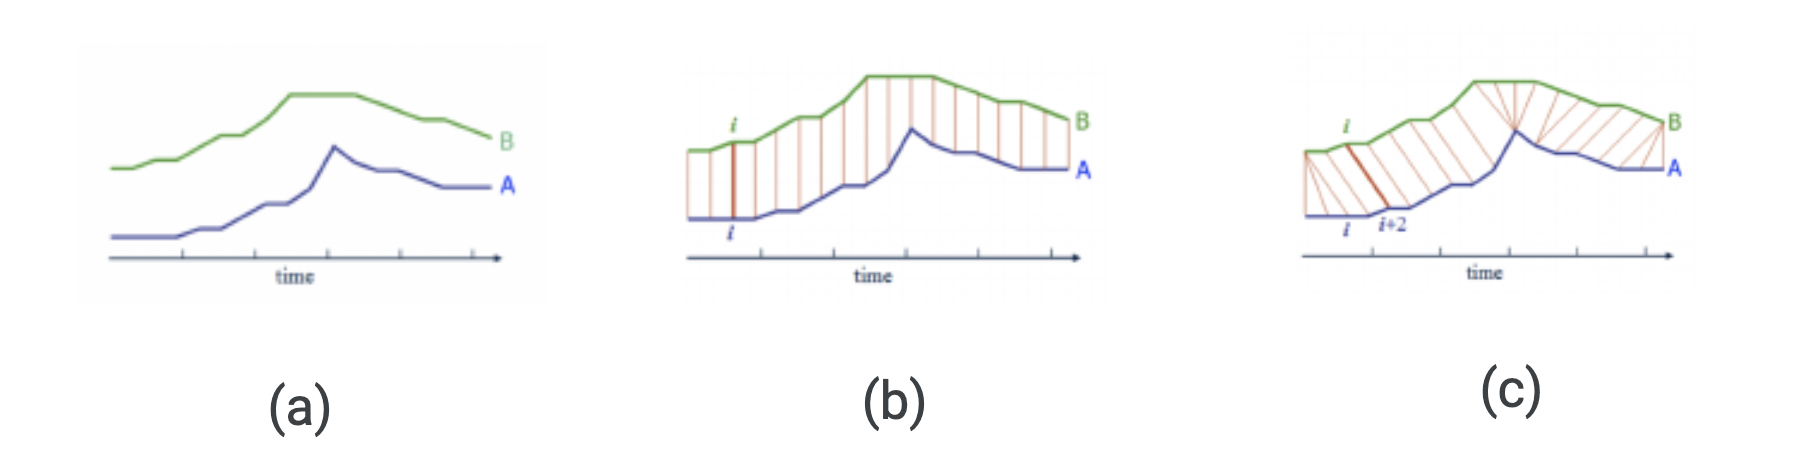
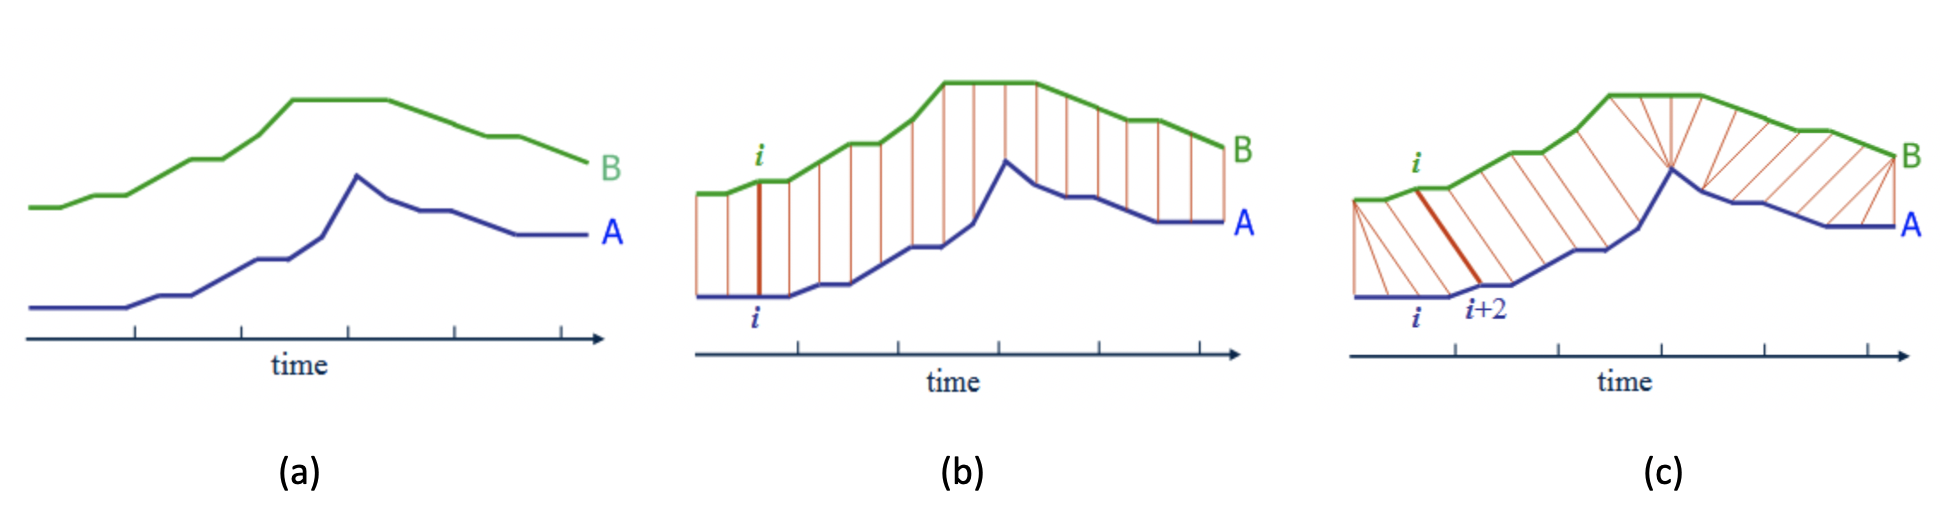
1. modify according to Aras's comments. 2. modify iamges.

diff --git a/background_and_relatedwork.tex b/background_and_relatedwork.tex
@@ -7,7 +7,7 @@ These include distance measurement methods, averaging methods, and semi-supervis
 \section{Dissimilarity measurement for time series}
 Euclidean distance is commonly used in measuring distances between two points, two vectors, etc. It is simple and competitive for many scenarios. However, it is not the best choice in some domains, such as time series. Time series data are sensitive to the time axis. Even though they share similar shapes they might not match well in Euclidean distance because their shifts or speed might not synchronize. A better way of measuring distance between time series that can capture their similarities is Dynamic Time Warping (DTW).
 \subsection{DTW}
-Dynamic time warping (DTW) is a well-known method to measure the distance between time series instances (could be also called sequences). \cref{fig:dtw_vs_normal} gives an intuitive illustration of the difference between Euclidean distance and DTW.  \cref{fig:dtw_vs_normal} (a) shows two time series, A and B, respectively. We are interested in their similarity.  \cref{fig:dtw_vs_normal} (b) illustrates how points in A and B are mapped to each other in Euclidean distance. We can see that the element of A at position $ i $ is mapped to the element of B at position $ i $. Unlike Euclidean distance,  \cref{fig:dtw_vs_normal} (c) shows that in DTW, there is no such necessity that the element of A at position $ i $ is mapped to the element of B at position $ i $. Actually in this case the element of A at position $ i $ is mapped to the element of B at position $ i+2 $. DTW is designed in such a way to find optimal alignment between two time series. Intuitively, it uses dynamic programming to map two time series in a way that similar values, e.g. peaks and troughs are mapped together. 
+Dynamic time warping (DTW) \cite{senin2008dynamic} is a well-known method to measure the distance between time series instances (could be also called sequences). \cref{fig:dtw_vs_normal} gives an intuitive illustration of the difference between Euclidean distance and DTW.  \cref{fig:dtw_vs_normal} (a) shows two time series, A and B, respectively. We are interested in their similarity.  \cref{fig:dtw_vs_normal} (b) illustrates how points in A and B are mapped to each other in Euclidean distance. We can see that the element of A at position $ i $ is mapped to the element of B at position $ i $. Unlike Euclidean distance,  \cref{fig:dtw_vs_normal} (c) shows that in DTW, there is no such necessity that the element of A at position $ i $ is mapped to the element of B at position $ i $. Actually in this case the element of A at position $ i $ is mapped to the element of B at position $ i+2 $. DTW is designed in such a way as to find optimal alignment between two time series. Intuitively, it uses dynamic programming to map two time series in a way that similar values, e.g. peaks and troughs are mapped together. 
 
 
 \begin{figure}[!htb]
@@ -28,14 +28,14 @@ Before diving into the details of the DTW algorithm, we would like to first intr
 	\item The mapping of indices from one time series to the other time series should be monotonically increasing. For example, if $ i < j $ are indices from one time series, and $ k < l $ are indices from the other time series, there is no such mapping like index $ i $ is mapped to index $ l $ and index $ j $ is mapped to index $ k $.
 \end{itemize}
 
-DTW finds the best alignment between two time series while satisfying these preconditions by solving a dynamic programming problem. Suppose there are two sequences, sequence $ S $ of length $ n $ and sequence $ T$ of length $ m $. DTW maintains a two-dimension distance matrix of size $ n * m $, where element with index $ i, j $ records the accumulated distance of the best alignment between subsequence of $ S $ with indices from $ 1 $ to $ i $ and subsequence of $ T $ with indices from $ 1 $ to $ j $. In \cref{fig:dtw_w_all}, we are interested in the accumulated distance between index $ i $ in first sequence and index $ j $ in the second sequence.  At this moment index i is mapped to index j, which in shown in the blue line. To meet with the preconditions of DTW mentioned above, there are three possibilities on the choice of the former alignment, index $ i-1 $ mapped to index $ j $, index $ i $ mapped to index $ j-1 $ and index $ i-1 $ mapped to index $ j-1 $, which are shown in red lines. The alignment of the three having the smallest accumulated distance will be chosen. Let's look into the DTW algorithm. From lines 2 to 6, it initializes the matrix with the distance of index pairs in two sequences. From lines 13 to 17, it modifies each element of the matrix by adding the smallest accumulated distance of the three possible former alignments.
+DTW finds the best alignment between two time series while satisfying these preconditions by solving a dynamic programming problem. Suppose there are two sequences, sequence $ S $ of length $ n $ and sequence $ T$ of length $ m $. DTW maintains a two-dimension distance matrix of size $ n * m $, where element with index $ i, j $ records the accumulated distance of the best alignment between subsequence of $ S $ with indices from $ 1 $ to $ i $ and subsequence of $ T $ with indices from $ 1 $ to $ j $. In \cref{fig:dtw_w_all}, we are interested in the accumulated distance between index $ i $ in first sequence and index $ j $ in the second sequence.  At this moment the index i is mapped to the index j, which is shown in the blue line. To meet with the preconditions of DTW mentioned above, there are three possibilities on the choice of the former alignment, index $ i-1 $ mapped to index $ j $, index $ i $ mapped to index $ j-1 $ and index $ i-1 $ mapped to index $ j-1 $, which are shown in red lines. The alignment of the three having the smallest accumulated distance will be chosen. Let's look into the DTW algorithm. From lines 2 to 6, it initializes the matrix with the distance of index pairs in two sequences. From lines 13 to 17, it modifies each element of the matrix by adding the smallest accumulated distance of the three possible former alignments.
 
 \begin{figure}[!htb]
 	\centering
 	\begin{minipage}[t]{\textwidth}
 		\centering
 		\includegraphics[width=\linewidth]{pics/related_work/dtw_w_all}
-		\caption{Mapping in DTW}
+		\caption{Warping in DTW}
 		\label{fig:dtw_w_all}
 	\end{minipage}
 \end{figure}
@@ -94,7 +94,7 @@ DTW not only captures amplitude information of time series and computes their di
 
 
 \section{Averaging methods for time series}
-Apart from selecting the proper distance measurement method for time series instances, choosing the right averaging method for time series instances is also of much importance. A suitable average of time series should reflect the overall trend of them without missing other important characteristics, such as peaks and troughs. DTW Barycenter Averaging (DBA) is designed for this purpose.
+Apart from selecting the proper distance measurement method for time series instances, choosing the right averaging method for time series instances is also of much importance. A suitable average of time series should reflect the overall trend of them without missing other important characteristics, such as peaks and troughs. DTW Barycenter Averaging (DBA) \cite{petitjean2011global} is designed for this purpose.
 \subsection{DBA}
 As can be seen from its name, DTW Barycenter Averaging (DBA) makes use of DTW. It first initializes the average as the medoid of the time series instances, which is the one among all the time series instances that has the smallest sum of distances to all the other instances. After the initialization, DBA updates the average iteratively. Algorithm DBA shows how the average is updated at each iteration provided the old average and the sequences. At each iteration, it first computes the DTW between every sequence and the old average. For each coordinate in the old average, in every sequence there are one or more coordinates that are associated with it, DBA updates the coordinate with the barycenter of all the coordinates associated with it. DBA lets DTW refine its association iteratively and can converge the average gradually. DBA outperforms other averaging methods on sequences in a few ways. Firstly, it is a global averaging method, which means it is insensitive to the ordering of the sequences, which makes sure the stability of the average. Secondly, it modifies the coordinates of the average over time, but it doesn't change the length of the average, which is another sign of stability. Thirdly, the within-group sum of squares (WGSS) of DBA is much smaller than other averaging methods. Last but not least, it is more robust to the diversity of sequences, which means its performance is less influenced if sequences are more mixed. 
 
@@ -172,21 +172,21 @@ As we can see from \fref{fig:arithmetic} and \fref{fig:dba} \cite{dta_vs_arithme
 \section{Semi supervised time series clustering methods}
 
 \subsection{Semi-supervised learning}
-In supervised learning, we have the labels of all the instances, thus we can check the accuracy of our algorithms by comparing the expected labels and predicted labels of the instances. It enjoys the clarity of data and is easy to train. However, labeling all the data is not a trivial task, and sometimes it is not easy or even impossible to get the labels of data.
+In supervised learning, we have the labels of all the instances. It enjoys the clarity of data and is easy to train. However, labeling all the data is not a trivial task, and sometimes it is not easy or even impossible to get the labels of data.
 
-In unsupervised learning, no data is labeled, and algorithms are expected to find patterns on these unlabeled data. It saves the effort of collecting the labels of data. However, it can not reflect any users' export knowledge.
+In unsupervised learning, no data is labeled, and algorithms are expected to find patterns on these unlabeled data. It saves the effort of collecting the labels of data. However, it can not reflect any users' expert knowledge.
 
-Clustering is subjective. Different users might expect different clustering results given the same dataset. In Semi-supervised learning, a small part of data are labeled and most of the data are unlabeled.  Little effort in collecting expert knowledge can contribute greatly to the clustering result. These small parts of labeled data not only shape the result of clustering but also accelerate the process of clustering. 
+Clustering is subjective. Different users might expect different clustering results given the same dataset. For example, images of faces can be clustered by gender, or whether they have eyeglasses or not, etc. In Semi-supervised learning, a small part of data are labeled and most of the data are unlabeled.  Little effort in collecting expert knowledge can contribute greatly to the clustering result. These small parts of labeled data not only shape the result of clustering but also accelerate the process of clustering. 
 \subsection{COBRA} \label{sec:COBRA}
 COBRA \cite{vancraenendonck2018cobra} is a constraint-based semi-supervised clustering method. Constraint-based clustering does not ask the users the labels of the instances directly. Instead, it queries the relation between instance pairs and adds constraints on the instances. There are two types of constraints, must-link, and cannot-link. A must-link means that two instances should be in the same cluster, while a cannot-link means that two instances should be in different clusters. The target should be asking users as few queries as possible to get a clustering close to the expected one.  
 
 Suppose we have $  N$ instances, to get the relation between all the instance pairs we need $N*(N-1)/2$ queries, so the number of queries increases exponentially as the instance number grows. We can reduce the number of queries by introducing \textit{constraint entailment and transitivity}.  Must-link constraints are transitive:
 
-\begin{center}$must-link(A, B) \wedge must-link(B, C) \Rightarrow must-link(A, C)$\end{center} \label{cobra:entailment}
+\begin{center}$\mathrm{must\mbox{-}link}(A, B) \wedge \mathrm{must\mbox{-}link}(B, C) \Rightarrow \mathrm{must\mbox{-}link}(A, C)$\end{center} \label{cobra:entailment}
 
 \noindent ,and cannot-link constraints have entailment property:
 
-\begin{center}$must-link(A, B) \wedge cannot-link(B, C) \Rightarrow cannot-link(A, C)$\end{center} \label{cobra:transitivity}
+\begin{center}$\mathrm{must\mbox{-}link}(A, B) \wedge \mathrm{cannot\mbox{-}link}(B, C) \Rightarrow \mathrm{cannot\mbox{-}link}(A, C)$\end{center} \label{cobra:transitivity}
 
 \noindent As a result, whenever we get a constraint, we can apply the constraint entailment and transitivity to enlarge the constraint set. In this case, we can decrease the number of queries.
 
@@ -206,11 +206,11 @@ All of the above clustering methods produce very good clustering. Still, they ne
 		\WHILE  {the clustering changed}
 		\STATE Let $\mathit{L}$ be the list of all pairs of partial clusters between which the relation is not known yet, sorted by their pairwise distance
 		\FOR {$\mathit{P_1, P_2}$ $\in$ $\mathit{L}$}
-			\STATE Query the relation between partial clusters $\mathit{P_1}$  and $\mathit{P_2}$ 
-			\IF {a must-link relation is obtained}
-				\STATE merge $\mathit{P_1}$ and $\mathit{P_2}$  into a new partial cluster
-				\STATE break
-			\ENDIF
+		\STATE Query the relation between partial clusters $\mathit{P_1}$  and $\mathit{P_2}$ 
+		\IF {a must-link relation is obtained}
+		\STATE merge $\mathit{P_1}$ and $\mathit{P_2}$  into a new partial cluster
+		\STATE break
+		\ENDIF
 		\ENDFOR
 		\ENDWHILE
 		\RETURN the current clustering
@@ -231,24 +231,24 @@ As shown in \fref{fig:contrain-based-level}, we are going to cluster on five dot
 Although COBRA can greatly reduce the number of queries and increase the speed of getting clustering results, there is one obvious defect of COBRA. Once a super-instance is formed, it can only be merged into a bigger super-instance, and can never be split again. As users, we are asked to provide COBRA with the number of original super-instances so that COBRA can use it in the K-means algorithm to split the data at the very beginning. If we fail to designate a good number of super-instances, unexpected results might occur. For instance, if we set the original number of super-instances to a number that is too small, we might get under clustering, where instances that are not supposed to be in the same group are clustered together. On the contrary, if we set the original number of super-instances to a number that is too big, we might get over clustering, where instances that are supposed to be in the same group are split away. As a result, getting a clustering of perfect granularity
 is not always the case in COBRA.
 
-COBRAS is designed to automatically form clusters of better granularity
+COBRAS \cite{van2018cobras} is designed to automatically form clusters of better granularity
 . It refines COBRA by giving chance to split super-instances after it is formed. The main difference between COBRAS and COBRA is that in COBRAS, even if instances that are not expected to be in the same cluster are merged in some phase, there still exists the chance for them to separate later. In other words, in COBRA there are only merging, but in COBRAS merging and splitting happen alternately, until the query budget is used up. Another important difference between COBRAS and COBRA is that in COBRAS there is no such need to set up an initial number of super-instances, as COBRAS can decide it by itself. 
 
 \begin{algorithm}[h]
 	\caption{Constraint-based Repeated Aggregation and Splitting \cite{van2018cobras}}
 	\label{algo:cobras}
-	 \hspace*{\algorithmicindent} \textbf{$\mathcal{X}$: a dataset, $\mathit{q}$: a query limit} \\
+	\hspace*{\algorithmicindent} \textbf{$\mathcal{X}$: a dataset, $\mathit{q}$: a query limit} \\
 	\hspace*{\algorithmicindent} \textbf{$\mathcal{C}$: a clustering of $\mathit{D}$} 
 	\begin{algorithmic}[1]
 		\STATE  $\mathit{ML = \emptyset, CL = \emptyset}$
 		\STATE $\mathit{S}$ = \{$\mathcal{X}$\}, $\mathit{C = \{S\}}$, $\mathcal{C}$ = {$\mathit\{C\}$}
 		\WHILE {|$\mathit{ML}$| + |$\mathit{CL}$| < $\mathit{q}$}
-			\STATE $\mathit{S_{split}, C_{origin}} = \argmax_{\mathit{S \in C, C \in} \mathcal{C}} |\mathit{S}|$
-			\STATE $\mathit{k,ML,CL}$ = determineSplitLevel($\mathit{S_{split} , ML, CL}$)
-			\STATE $\mathit{S_{new_1}, ... , S_{new_k}}$ = K-means($\mathit{S_{split}, k}$)
-			\STATE $\mathit{C_{origin} = C_{origin}  \setminus \{S_{spit}\}}$
-			\STATE $\mathcal{C}$ = $\mathcal{C}$ $ \bigcup $\ \{\{$\mathit{S_{new_1}}$\}, ...,\{$\mathit{S_{new_k}}$\}\}
-			\STATE $\mathcal{C}$, $\mathit{ML, CL}$ = COBRA($\mathcal{C}$, $\mathit{ML, CL}$ )
+		\STATE $\mathit{S_{split}, C_{origin}} = \argmax_{\mathit{S \in C, C \in} \mathcal{C}} |\mathit{S}|$
+		\STATE $\mathit{k,ML,CL}$ = determineSplitLevel($\mathit{S_{split} , ML, CL}$)
+		\STATE $\mathit{S_{new_1}, ... , S_{new_k}}$ = K-means($\mathit{S_{split}, k}$)
+		\STATE $\mathit{C_{origin} = C_{origin}  \setminus \{S_{spit}\}}$
+		\STATE $\mathcal{C}$ = $\mathcal{C}$ $ \bigcup $\ \{\{$\mathit{S_{new_1}}$\}, ...,\{$\mathit{S_{new_k}}$\}\}
+		\STATE $\mathcal{C}$, $\mathit{ML, CL}$ = COBRA($\mathcal{C}$, $\mathit{ML, CL}$ )
 		\ENDWHILE 
 		\RETURN  C
 	\end{algorithmic}
@@ -265,7 +265,7 @@ A COBRAS procedure is elaborated in \fref{fig:cobras_procedure}. At the very beg
 
 The learning curve of COBRA and COBRAS are compared in \fref{fig:learning_curve_cobras}. For COBRA, when the number of super-instances is small, as shown in the orange curve, the clustering quality increases quickly at first but can only reach a suboptimal level. When the number of super-instances is big, as shown in the red curve, a relatively good clustering result is obtained in the end but it takes more queries to get this result. For COBRAS, as shown in the dotted blue curve, not only optimal clustering result is obtained in the end, but also the clustering performance is already high within fewer queries.  
 
-The clustering result of COBRA and COBRAS are compared in \fref{fig:result_cobras}. From left to right, results of CORBA with 10 initial super-instances, COBRA with 100 initial super-instances, COBRAS are shown. Dots having the same color are clustered into the same group. The difference between images on the upper layer and the lower layer is the number of queries that is used. We can see that both COBRA with 100 initial super-instances and CORBAS can obtain the perfect result in the end. However, COBRAS is more query-efficient as it obtains this result within 36 queries, while COBRA with 100 initial super-instances needs 103 queries. For COBRA with 10 initial super-instances, it stucks after 14 queries and ends in a suboptimal clustering. As we can see in the red circle, the yellow cluster has included a small part that is expected to be in the brown cluster, which is the phenomenon of under-clustering. In all, COBRAS beats COBRA for its ability to converge to high-quality clustering in a shorter time with fewer queries.  
+The clustering result of COBRA and COBRAS are compared in \fref{fig:result_cobras}. From left to right, results of CORBA with 10 initial super-instances, COBRA with 100 initial super-instances, COBRAS are shown. Dots having the same color are clustered into the same group. The difference between images on the upper layer and the lower layer is the number of queries that are used. We can see that both COBRA with 100 initial super-instances and CORBAS can obtain the perfect result in the end. However, COBRAS is more query-efficient as it obtains this result within 36 queries, while COBRA with 100 initial super-instances needs 103 queries. For COBRA with 10 initial super-instances, it stucks after 14 queries and ends in a suboptimal clustering. As we can see in the red circle, the yellow cluster has included a small part that is expected to be in the brown cluster, which is the phenomenon of under-clustering. In all, COBRAS beats COBRA for its ability to converge to high-quality clustering in a shorter time with fewer queries.  
 
 \begin{figure}
 	\centering
@@ -284,9 +284,9 @@ The clustering result of COBRA and COBRAS are compared in \fref{fig:result_cobra
 
 
 \subsection{$ \mathrm{COBRAS^{TS}} $}
-Clustering on time series data is more subjective. There are several elements in time series data that are important, such as time scale, amplitude scale, number of peaks, etc. Different users might focus differently on those elements. Besides, some users might pay more attention to the monotonic behavior of the time series data, while other users might pay more attention to the periodic behavior of the time series data. Sometimes users might be interested in whether there are specific patterns in the time series data. Thus, using semi-supervised learning to exploit users' expert knowledge is very important in time series clustering.
+Clustering on time series data is more subjective. Several elements in time series data are important, such as time scale, amplitude scale, number of peaks, etc. Different users might focus differently on those elements. Besides, some users might pay more attention to the monotonic behavior of the time series data, while other users might pay more attention to the periodic behavior of the time series data. Sometimes users might be interested in whether there are specific patterns in the time series data. Thus, using semi-supervised learning to exploit users' expert knowledge is very important in time series clustering.
 
-We had discussed COBRAS's ability to obtain perfect clustering efficiently as a semi-supervised clustering method. However, when it comes to time series data, things are not that simple. COBRAS is not inherently suitable for time series data mainly for two reasons. The first one is that COBRAS uses Euclidean distance, which is not the start-of-art distance measure for time series data. The second one is that COBRAS uses the K-means algorithm to split super-instances, which is again not that suitable for time series data. The good thing is that we can still make good use of COBRAS by keeping its main idea and injecting distance measure and clustering method that are suitable for time series data. It is how $ \mathrm{COBRAS^{DTW}} $ is introduced. $ \mathrm{COBRAS^{DTW}} $ replaces the Euclidean distance with the DTW mentioned above, and uses spectral clustering to split super-instances. As it is COBRAS specifically for time series data, we also refer to it $ \mathrm{COBRAS^{TS}} $.
+We had discussed COBRAS's ability to obtain perfect clustering efficiently as a semi-supervised clustering method. However, when it comes to time series data, things are not that simple. COBRAS is not inherently suitable for time series data mainly for two reasons. The first one is that COBRAS uses Euclidean distance, which is not the start-of-art distance measure for time series data. The second one is that COBRAS uses the K-means algorithm to split super-instances, which is again not that suitable for time series data. The good thing is that we can still make good use of COBRAS by keeping its main idea and injecting the distance measure and the clustering method that are suitable for time series data. It is how $ \mathrm{COBRAS^{DTW}} $ \cite{van2018cobrasts} is introduced. $ \mathrm{COBRAS^{DTW}} $ replaces the Euclidean distance with the DTW mentioned above and uses spectral clustering to split super-instances. As it is COBRAS specifically for time series data, we also refer to it $ \mathrm{COBRAS^{TS}} $.
 
 %\begin{algorithm}[h] 
 %	\caption{$ \mathrm{COBRAS^{TS}} $}

diff --git a/properties_of_a_cluster.tex b/properties_of_a_cluster.tex
@@ -130,8 +130,8 @@ We select \textbf{ECG} and \textbf{Trace} to experiment because the lengths of t
 \section{Experiments}
 The experiment procedure is designed as below. \cref{fig:properties_process} shows the flow of the experiment.
 \begin{enumerate} 
-	\item Perform $ \mathrm{COBRAS^{TS}} $ on the whole dataset and obtain the clustering result. We mock the query part by getting constraints from the labels of the instances. If the labels of two instances are the same, we suppose there is a must-link between them. On the contrary, if the labels of two instances are different, we suppose there is a cannot-link between them. After obtaining the clustering result, select one cluster of interest at a time in to explain its properties.
-	\item Compute the DBA of the sequences in the selected cluster, which is shown in the purple arrow.
+	\item Perform $ \mathrm{COBRAS^{TS}} $ on the whole dataset and obtain the clustering result. We mock the query part by getting constraints from the labels of the instances. If the labels of two instances are the same, we suppose there is a must-link between them. On the contrary, if the labels of two instances are different, we suppose there is a cannot-link between them. After obtaining the clustering result, select one cluster of interest at a time to explain its properties.
+	\item Compute the DBA of the sequences in the selected cluster, which is shown in the purple arrow in \cref{fig:properties_process} .
 	\item Based on DBA and the sequences, compute the vertical warping deviation, which is shown in the pink arrows. Similarly, compute the horizontal warping deviation, which is shown in green arrows. 
 	We also compute the traditional unwarping deviation, but it is not shown in \cref{fig:properties_process} because it is relatively irrelevant. We still compute it as we want to compare the vertical warping deviation to see the difference, and we show it in \cref{fig:three_deviation} and \cref{fig:three_deviation_trace}.
 	\item Show DBA together with warping deviations. Specifically, surround each coordinate of DBA with an eclipse with a width of the corresponding horizontal warping deviation and a height of the corresponding vertical warping deviation. This step is shown in blue arrows. 
@@ -150,20 +150,20 @@ We experimented with the ECG dataset, and we set the query budget of $ \mathrm{C
 
 With the DBA and the instances, we then compute three types of deviations, and they are shown in \cref{fig:three_deviation}. Thinking about the characteristic of DTW, it is no wonder that the vertical warping deviation (the pink curve in the left image) is smaller than the traditional unwarping deviation (the grey curve in the middle image). DTW warps sequences in the X-axis (time axis) to decrease their differences in the Y-axis (value axis), so the vertical warping deviation is smaller. Though DTW decreases the vertical warping deviation, the gain comes with loss. The horizontal warping deviation (green curve in the right image) is much bigger. This is consistent with the fact that DTW sacrifices the deviation on the time axis.
 
-At around 40 on the time axis, the horizontal warping deviation is large, so there is a lot of variation in the time axis for this part. This indicates that the transition around the time of 40 can occur at dfferent times in this cluster. On the other hand, the vertical warping deviation is small, so the amplitude does not change significantly.
+At around 40 on the time axis, the horizontal warping deviation is large, so there is a lot of variation in the time axis for this part. This indicates that the transition around the time of 40 can occur at different times in this cluster. On the other hand, the vertical warping deviation is small, so the amplitude does not change significantly.
 
 To combine the DBA and two types of warping deviations, we introduce \textbf{deviation eclipse}. For each coordinate in the DBA, we surround it with an eclipse, where the height of the eclipse is set to be the vertical warping deviation, and the width of the eclipse is set to be the horizontal warping deviation. The wider the eclipse is, the larger the horizontal warping deviation is for the corresponding coordinate. The taller the eclipse is, the larger the vertical warping deviation.
 
 \begin{figure}[htbp]	
 	\centering
-	\includegraphics[width=\linewidth]{pics/properties/ecg/cluster0_dba}
+	\includegraphics[width=\linewidth]{pics/properties/ecg/cluster_0_dba_new}
 	\caption{(a) DBA (b) instances [dataset: ECG]}
 	\label{fig:instances_and_dba}
 \end{figure}
 
 \begin{figure}[htbp]
 	\centering
-	\includegraphics[width=\linewidth]{pics/properties/ecg/cluster0_deviation}
+	\includegraphics[width=\linewidth]{pics/properties/ecg/cluster_0_deviation_new}
 	\caption{(a) Vertical Warping Deviation (b) Standard Deviation (c) Horizontal Warping Deviation [dataset: ECG]}
 	\label{fig:three_deviation}
 \end{figure}
@@ -182,14 +182,14 @@ We can see that in \cref{fig:instances_and_dba_trace} the DBA can well capture t
 
 \begin{figure}[htbp]	
 	\centering
-	\includegraphics[width=\linewidth]{pics/properties/trace/cluster0_dba}
+	\includegraphics[width=\linewidth]{pics/properties/trace/cluster0_dba_new}
 	\caption{(a) DBA (b) instances [dataset: Trace]}
 	\label{fig:instances_and_dba_trace}
 \end{figure}
 
 \begin{figure}[htbp]
 	\centering
-	\includegraphics[width=\linewidth]{pics/properties/trace/cluster0_deviation}
+	\includegraphics[width=\linewidth]{pics/properties/trace/cluster0_deviation_new}
 	\caption{(a) Vertical Warping Deviation (b) Standard Deviation (c) Horizontal Warping Deviation [dataset: Trace]}
 	\label{fig:three_deviation_trace}
 \end{figure}

diff --git a/intro.tex b/intro.tex
@@ -1,12 +1,12 @@
 \chapter{Introduction}
 \label{cha:intro}
-The goal of semi-supervised learning is to combine the opinions of experts with existed information. COBRAS \cite{van2018cobras} is most query-efficient semi-supervised clustering method. It has a time series-based version, COBRAS-TS \cite{van2018cobrasts}.  Clustering on time series data can be of significant value in several scenarios in our daily life, such as clustering on the energy consumption data, electrocardiogram data, etc. However, how the clustering result is obtained is a black box or at least a gray box to end-users. We study here the explanation of the clustering result. Two benefits are doing so. Apart from providing end-users a more intuitive way of understanding the result, we can convince the experts who give opinions during the clustering process that the result is truly partly based on their knowledge.
+The goal of semi-supervised learning is to combine the opinions of experts with existing information. COBRAS \cite{van2018cobras} the most query-efficient semi-supervised clustering method. It has a time series-based version, COBRAS-TS \cite{van2018cobrasts}.  Clustering time series data can be of significant value in several scenarios in our daily life, such as clustering on the energy consumption data, electrocardiogram data, etc. However, how the clustering result is obtained is a black box or at least a gray box to end-users. The resulting clustering is difficult to interpret and evaluate, especially for large datasets. This is a significant drawback for semi-supervised systems where experts can contribute to the result but are unable to interpret or evaluate it. We study here how the semi-supervised clustering result can be explained and interpreted. Two benefits are doing so. Apart from providing end-users a more intuitive way of understanding the result, one can convince the experts who give opinions during the clustering process that the result is truly partly based on their knowledge.
 
-\textbf{DTW.} Unlike Euclidean distance, DTW \cite{senin2008dynamic} computes the best possible alignment between two time series of respective lengths $  n $ and  $  m $  by first computing the $ n * m $ pairwise distance matrix between these points and then solving a dynamic program. The most important characteristic of DTW is its invariance against wrapping in the time axis. It can capture alternations between leading and lagging relationships of time series.  In other words, if two time series have similar trends but do not correspond to each other in the time axis, DTW will do a wrapping, making sure that similar trends inside them are mapped to each other. 
+\textbf{DTW.} Unlike Euclidean distance, DTW \cite{senin2008dynamic} computes the best possible alignment between two time series of respective lengths $  n $ and  $  m $  by first computing the $ n * m $ pairwise distance matrix between these points and then solving a dynamic program. The most important characteristic of DTW is its invariance against warping in the time axis. It can capture alternations between leading and lagging relationships of time series.  In other words, if two time series have similar trends but do not correspond to each other in the time axis, DTW will do a warping, making sure that similar trends inside them are mapped to each other. 
 
-\textbf{DBA.} Averaging on time series data is different from averaging on common data. DBA does not calculate the average by the Euclidean distance. Instead, it uses the DTW mentioned above. Compared to the arithmetic mean, DBA \cite{petitjean2011global} preserves the ability of DTW, identifying time shifts. 
+\textbf{DBA.} Averaging on time series data is different. DBA does not calculate the average by the Euclidean distance. Instead, it uses the DTW mentioned above. Compared to the arithmetic mean, DBA \cite{petitjean2011global} preserves the ability of DTW, identifying time shifts. 
 
-\textbf{COBRA.} COBRA \cite{vancraenendonck2018cobra} is a constraint-based clustering method. It allows users to give feedback on the relationship of instances. By introducing the concept of \textbf{super-instance} which are a group of similar instances, and only execute queries on the super-instance, COBRA can substantially reduce the number of queries, which makes it query-efficient.
+\textbf{COBRA.} COBRA \cite{vancraenendonck2018cobra} is a constraint-based semi-supervised clustering method. It allows users to give feedback on the relationship of instances. By introducing the concept of \textbf{super-instance} which are a group of similar instances, and only execute queries on the super-instance, COBRA can substantially reduce the number of queries, which makes it query-efficient.
 
 \textbf{COBRAS.} COBRAS \cite{van2018cobras} is designed to automatically form clusters of better granularity. It refines COBRA by giving chance to split super-instances after they are formed. COBRAS beats COBRA for its ability to converge to clustering with better-grained levels of granularity in a shorter time with fewer queries. 
 

diff --git a/thesis.tex b/thesis.tex
@@ -59,7 +59,7 @@
 		
 		In semi-supervised machine learning (ML) techniques, expert feedback is leveraged, but the result is often not interpretable and is hard to be evaluated by an expert. There are large datasets where it is possible to apply such ML techniques thanks to the increasing computational power of computers, but it becomes even more difficult to interpret results for such large datasets. Time series can be represented visually and hence advantageous over other formats such as attribute-value pairs, so it is quite valuable to have interpretable results for time series. This is especially important for semi-supervised systems because the expert who contributes to the result might want to evaluate it as well. 
 		
-		In this thesis, we focus on the semi-supervised clustering of time series. We employ the most query-efficient technique to date, Constraint-based Repeated Aggregation and Splitting for Time Series ($ \mathrm{COBRAS^{TS}} $), which has been developed by the DTAI research group at KU Leuven. $ \mathrm{COBRAS^{TS}} $ exploits expert knowledge by querying users' constraints between pairs of time series instances. $ \mathrm{COBRAS^{TS}} $ iteratively aggregates and splits super-instances to obtain a clustering of fine granularity. As for measuring similarity between time series instances, Dynamic Time Warping (DTW) is chosen. Unlike Euclidean distance, which strictly abides by the time axis, DTW finds the best alignment between two time series instances by warping and computes their distance based on it. DTW itself has good explanation ability thanks to the fact that the warping process is recorded. As for the averaging in time series data, DTW Barycenter Averaging (DBA) is chosen as it can capture the most important trend of instances, while in the arithmetic mean characteristics of the original instances are averaged in the time axis and the information about peaks and troughs are blurred. 
+		In this thesis, we focus on the interpretability and explainability of the semi-supervised clustering of time series. We employ the most query-efficient technique to date, Constraint-based Repeated Aggregation and Splitting for Time Series ($ \mathrm{COBRAS^{TS}} $), which has been developed by the DTAI research group at KU Leuven. $ \mathrm{COBRAS^{TS}} $ exploits expert knowledge by querying users' constraints between pairs of time series instances. $ \mathrm{COBRAS^{TS}} $ iteratively aggregates and splits super-instances to obtain a clustering of fine granularity. As for measuring similarity between time series instances, Dynamic Time Warping (DTW) is chosen. Unlike Euclidean distance, which strictly abides by the time axis, DTW finds the best alignment between two time series instances by warping and computes their distance based on it. DTW itself has good explanation ability thanks to the fact that the warping process is recorded. As for the averaging in time series data, DTW Barycenter Averaging (DBA) is chosen as it can capture the most important trend of instances, while in the arithmetic mean characteristics of the original instances are averaged in the time axis and the information about peaks and troughs are blurred. 
 		
 		As distance measure and averaging are different in time series data, the traditional deviation method doesn't work well for them. We propose in this thesis new types of deviations for time series instances, warped horizontal deviation, and warped vertical deviation respectively, and illustrate how warped horizontal deviation is sacrificed to get smaller warped vertical deviation inside a cluster. We also propose a way to connect the essential constraints provided by users to show why two time series instances are clustered together, or vice versa.
 		
@@ -88,6 +88,7 @@
 			$ \mathrm{COBRAS^{TS} }$    & Constraint-based Repeated Aggregation and Splitting for Time Series\\
 		\end{tabularx}
 	\end{flushleft}
+	\iffalse
 	\section*{Symbols}
 	\begin{flushleft}
 		\renewcommand{\arraystretch}{1.1}
@@ -98,6 +99,7 @@
 			
 		\end{tabularx}
 	\end{flushleft}
+	\fi
 	
 	% Now comes to the main text
 	\mainmatter
